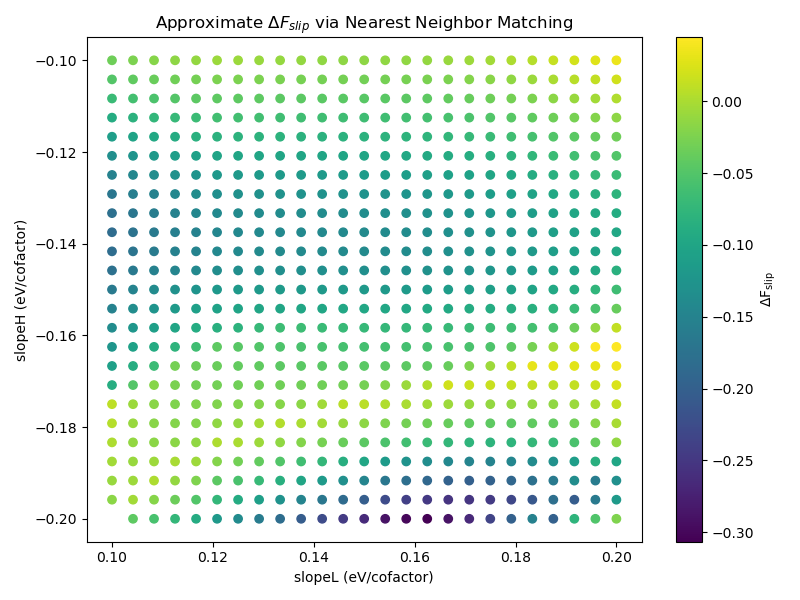
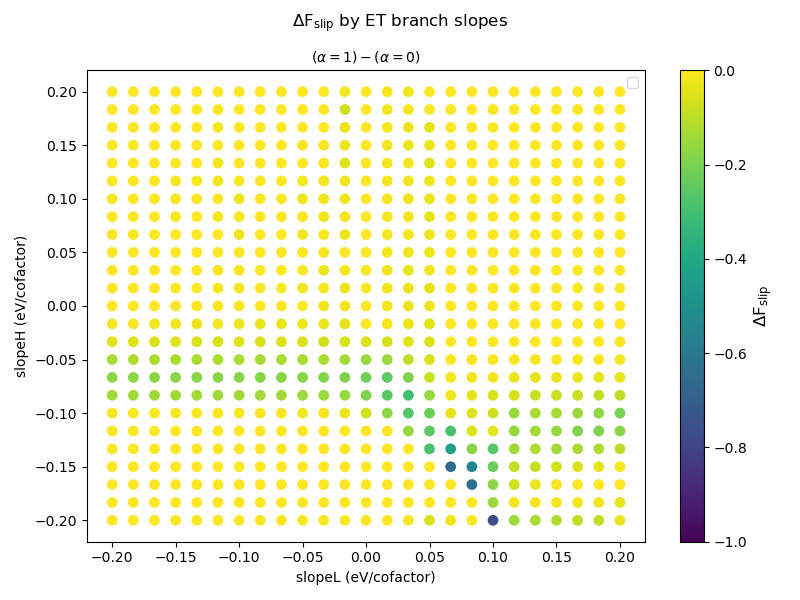
plotting F_slip and F_yield differences for alpha = 1 vs alpha = 0

diff --git a/plots.py b/plots.py
@@ -291,34 +291,29 @@ plt.tight_layout()
 plt.legend()
 plt.show()
 '''
-'''
+
 bump_0 = pd.read_csv('BestBump_alpha0_20250606.csv')
-slopeL_0 = bump_0['slopeL']
-slopeH_0 = bump_0['slopeH']
-F_slip_0 = bump_0['F_slip']
-F_yield_0 = bump_0['F_yield']
+bump_1 = pd.read_csv('BestBump_alpha1_20250609.csv')
 
-bump_pt03 = pd.read_csv('BestBump_alphapt03_20250606.csv')
-slopeL_pt03 = bump_pt03['slopeL']
-slopeH_pt03 = bump_pt03['slopeH']
-F_slip_pt03 = bump_pt03['F_slip']
-F_yield_pt03 = bump_pt03['F_yield']
+# both datasets have the same slope grid search combinations, so slopes from either bump_0 or bump_1 work
+slopeL = bump_0['slopeL']
+slopeH = bump_0['slopeH']
+F_slip_diff = bump_1['F_slip'] - bump_0['F_slip']
+F_yield_diff = bump_1['F_yield'] - bump_0['F_yield']
 
-F_slip_diff = F_slip_pt03 - F_slip_0
-F_yield_diff = F_yield_pt03 - F_yield_pt03
-
-vmin = min(np.min(F_slip_0), np.min(F_yield_0), np.min(F_slip_pt03), np.min(F_yield_pt03))
-vmax = max(np.max(F_slip_0), np.max(F_yield_0), np.max(F_slip_pt03), np.max(F_yield_pt03))
+# center around 0 and use a diverging color map to visualize difference
+absmax = max(abs(F_slip_diff).max(), abs(F_yield_diff).max())
+vmin, vmax = -absmax, absmax
 
 # F_slip diff
 plt.figure(figsize=(8, 6))
-sc = plt.scatter(slopeL_0, slopeH_0, c=F_slip_diff, cmap='viridis', s=60, edgecolor='none')
+sc = plt.scatter(slopeL, slopeH, c=F_slip_diff, cmap='viridis', s=60, edgecolor='none', vmin = -1, vmax = 0)
 cbar = plt.colorbar(sc)
-cbar.set_label(r'$\mathrm{F}_{\mathrm{slip}}$', fontsize=12)
+cbar.set_label(r'$\Delta \mathrm{F}_{\mathrm{slip}}$', fontsize=12)
 
 # labels
 plt.suptitle(r'$\Delta\mathrm{F}_{\mathrm{slip}}$ by ET branch slopes')
-plt.title(r'$(\alpha=0.03) - (\alpha=0)$', fontsize=10)
+plt.title(r'$(\alpha=1) - (\alpha=0)$', fontsize=10)
 plt.xlabel('slopeL (eV/cofactor)')
 plt.ylabel('slopeH (eV/cofactor)')
 plt.tight_layout()
@@ -327,18 +322,18 @@ plt.show()
 
 # F_yield diff
 plt.figure(figsize=(8, 6))
-sc = plt.scatter(slopeL_0, slopeH_0, c=F_yield_diff, cmap='viridis', s=60, edgecolor='none')
+sc = plt.scatter(slopeL, slopeH, c=F_yield_diff, cmap='viridis', s=60, edgecolor='none', vmin = 0, vmax = 0.2)
 cbar = plt.colorbar(sc)
-cbar.set_label(r'$\mathrm{F}_{\mathrm{yield}}$', fontsize=12)
+cbar.set_label(r'$\Delta \mathrm{F}_{\mathrm{yield}}$', fontsize=12)
 
 # labels
 plt.suptitle(r'$\Delta\mathrm{F}_{\mathrm{yield}}$ by ET branch slopes')
-plt.title(r'$(\alpha=0.03) - (\alpha=0)$', fontsize=10)
+plt.title(r'$(\alpha=1) - (\alpha=0)$', fontsize=10)
 plt.xlabel('slopeL (eV/cofactor)')
 plt.ylabel('slopeH (eV/cofactor)')
 plt.tight_layout()
 plt.legend()
-plt.show()'''
+plt.show()
 '''
 # === ramps BayOpt search === 
 df = pd.read_csv('ramps2_iters_20250419.csv')
